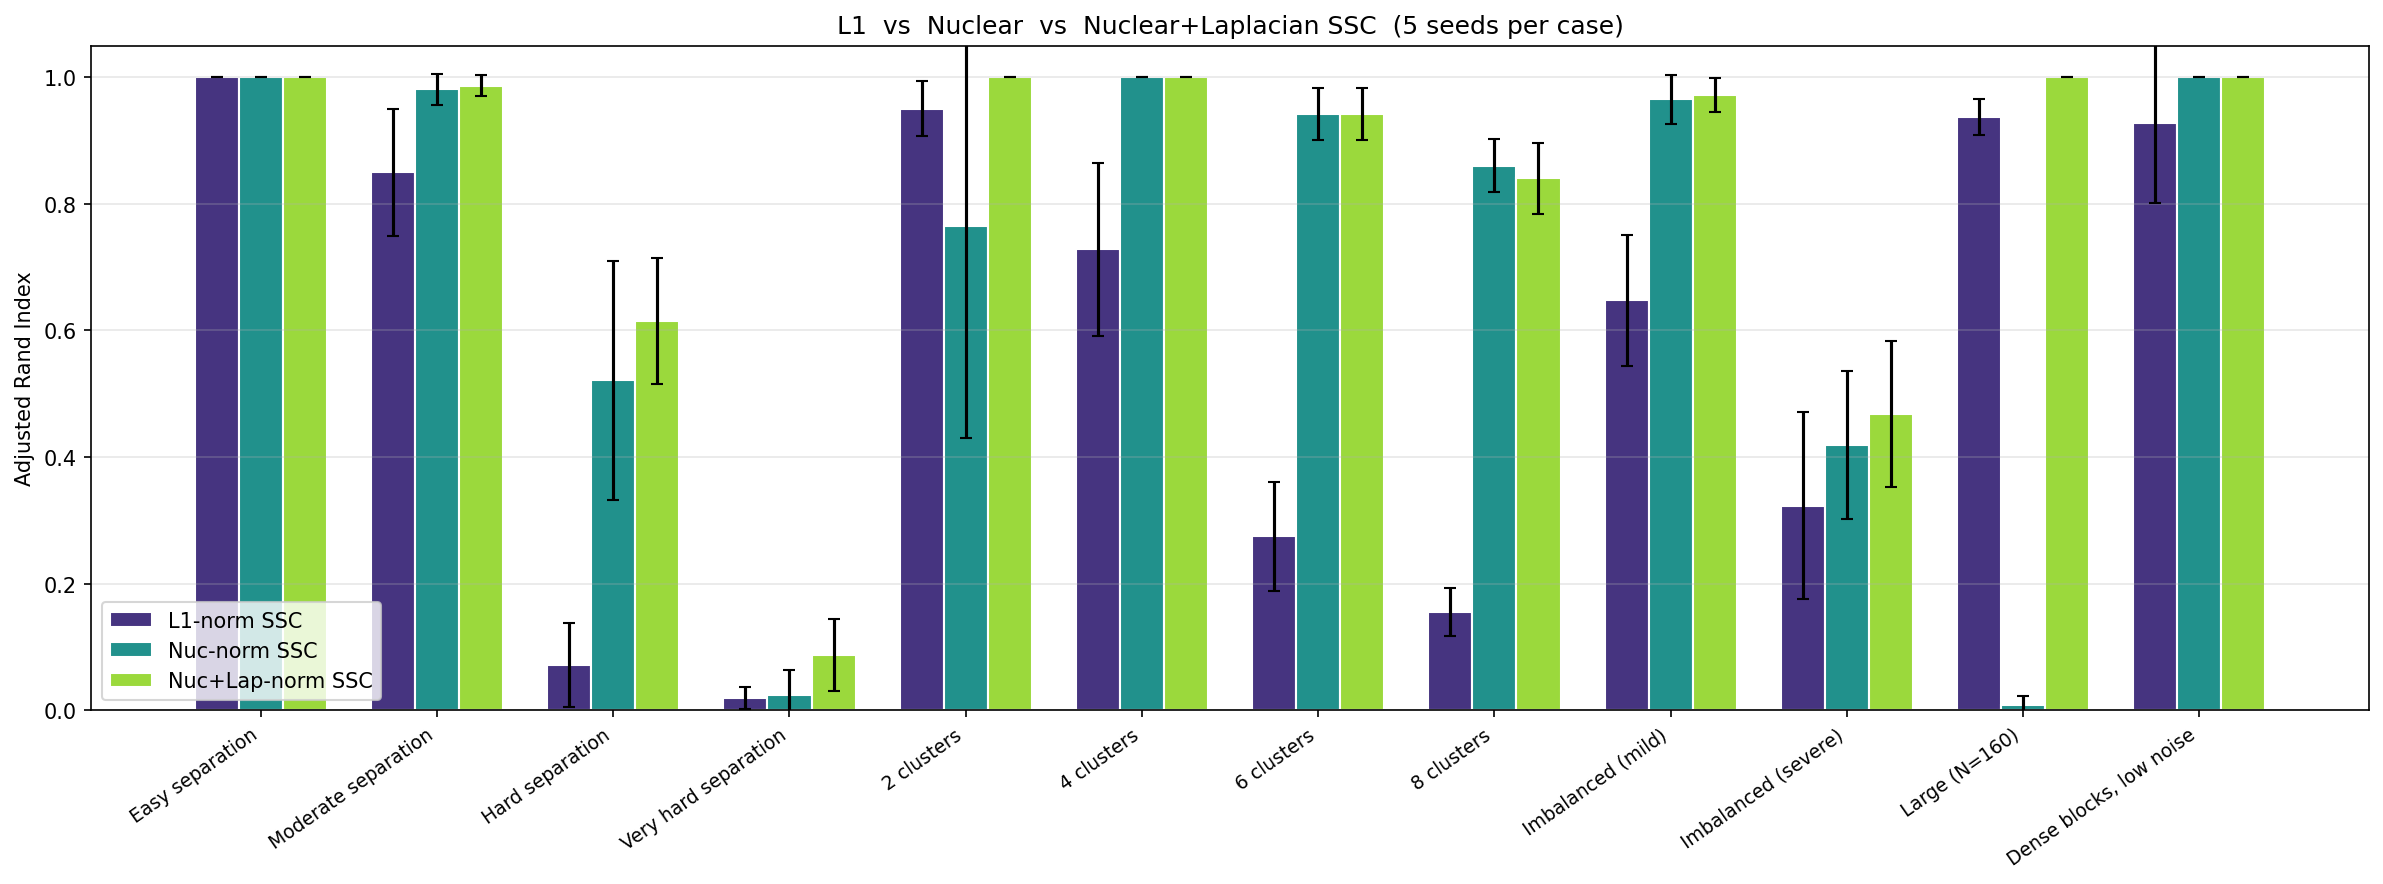
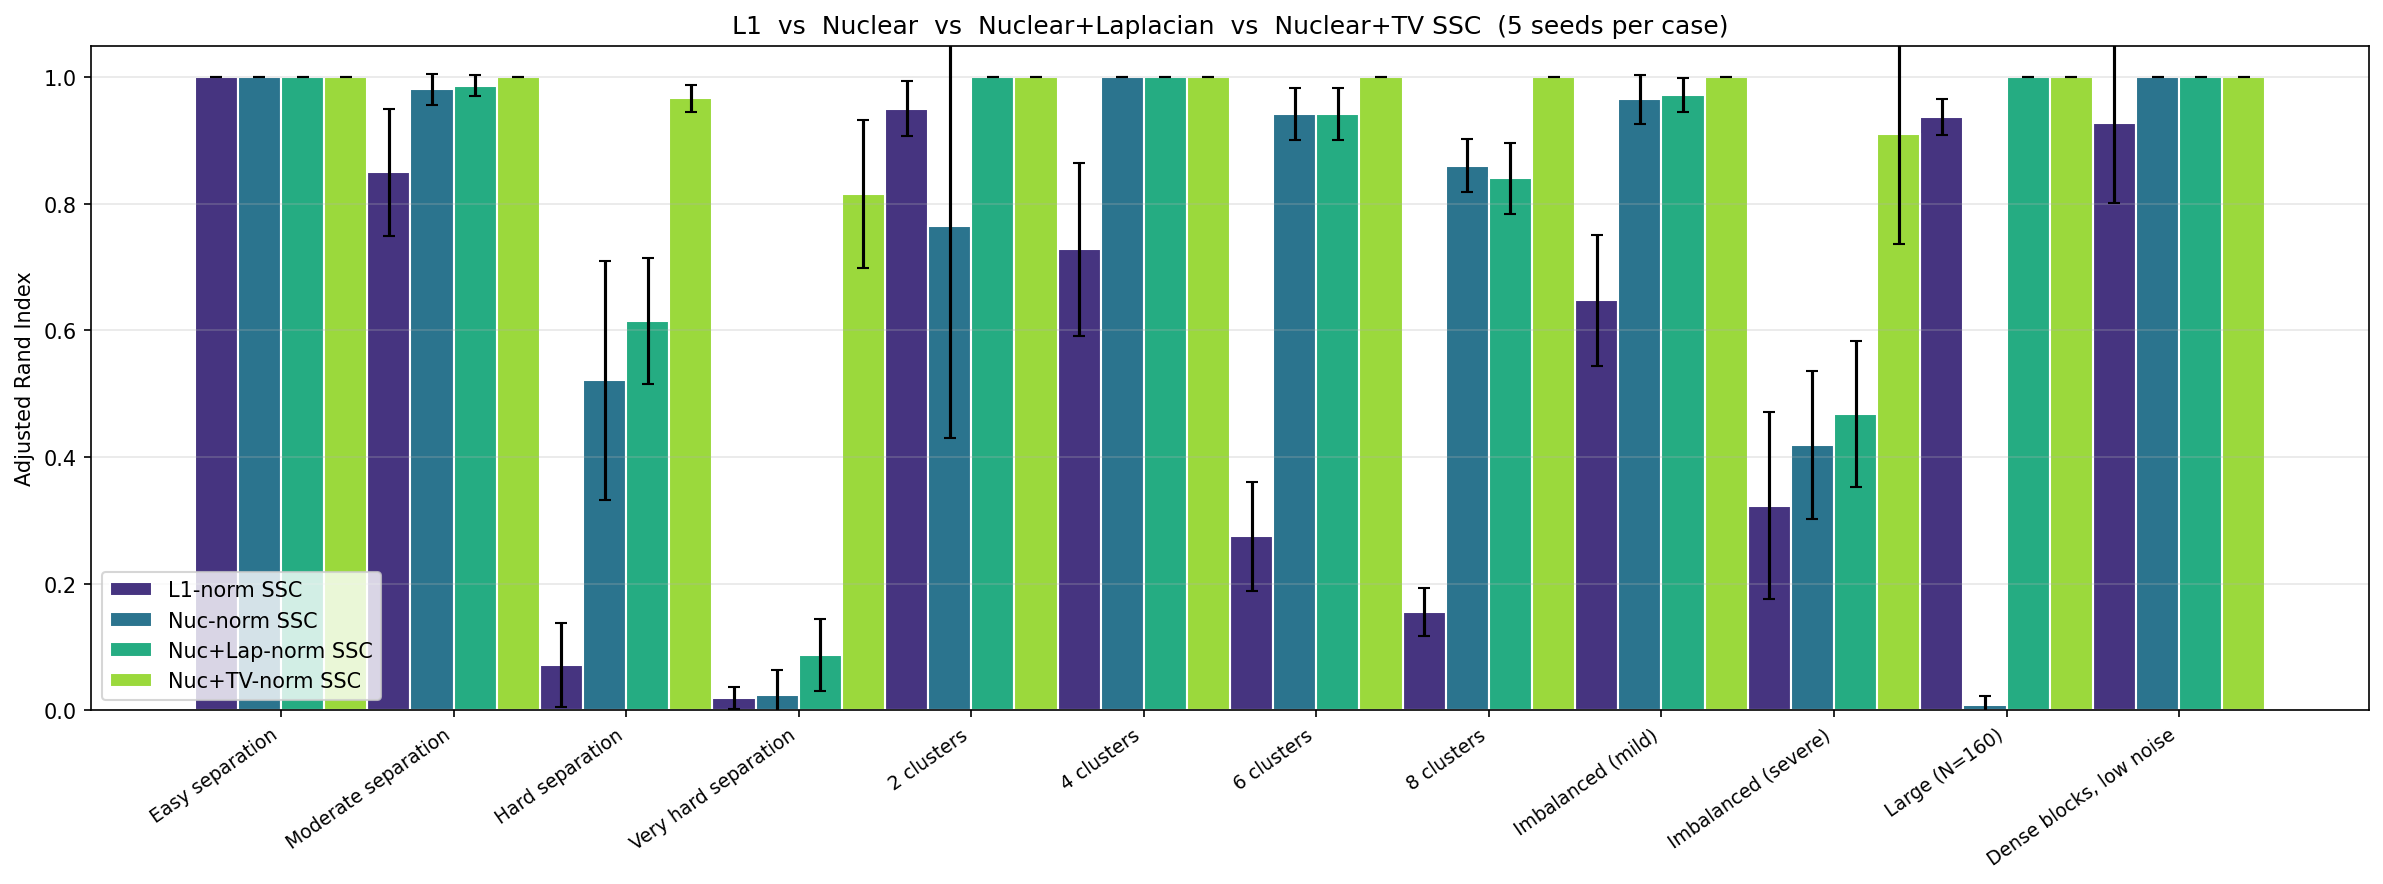
TV updates for benchmark tests and hic clustering test.

diff --git a/hic_clustering.py b/hic_clustering.py
@@ -33,6 +33,7 @@ from ssc_admm import ssc_admm
 from ssc_admm_nuc import ssc_admm as ssc_admm_nuc
 from ssc_admm_nuc_lap import ssc_admm_nuc_lap, cluster_from_C
 from ssc_admm_nuc_l1 import ssc_admm_nuc_l1
+from ssc_admm_nuc_total_var import ssc_admm_nuc_tv
 
 
 @dataclass(frozen=True)
@@ -165,16 +166,17 @@ def visualize_hic_ssc(
     X_nuc: np.ndarray,  pred_nuc: np.ndarray,
     X_lap: np.ndarray,  pred_lap: np.ndarray,
     X_l1: np.ndarray,   pred_l1: np.ndarray,
+    X_tv: np.ndarray,   pred_tv: np.ndarray,
     k: int,
     out_png: str,
 ) -> None:
     """
-    2×4 figure: Sparse | Nuc | NucLap | NucL1 — Hi-C boundaries (top) and
-    predicted cluster label tracks in original genomic order (bottom).
+    2×5 figure: Sparse | Nuc | NucLap | NucL1 | NucTV — Hi-C boundaries (top)
+    and predicted cluster label tracks in original genomic order (bottom).
     Cluster colors are consistent across all columns: cluster i always has the
     same color regardless of method.
     """
-    fig, axes = plt.subplots(2, 4, figsize=(24, 8))
+    fig, axes = plt.subplots(2, 5, figsize=(30, 8))
 
     Y_pos = Y[Y > 0]
     vmin = float(np.percentile(Y_pos, 5)) if Y_pos.size else 1.0
@@ -183,10 +185,14 @@ def visualize_hic_ssc(
 
     # Shared discrete colormap — same k colors used for every column.
     _palette = [
-        "#440154",  # 
-        "#3B528B",  # 
-        "#21918C",  # 
-        "#90D743",  # 
+        "#440154",
+        "#3B528B",
+        "#21918C",
+        "#90D743",
+        "#FDE725",
+        "#31688E",
+        "#35B779",
+        "#443A83",
     ]
     cluster_colors = [_palette[i % len(_palette)] for i in range(k)]
     from matplotlib.colors import ListedColormap
@@ -198,6 +204,7 @@ def visualize_hic_ssc(
         ("Nuc",     pred_nuc, _contiguous_boundaries(pred_nuc)),
         ("NucLap",  pred_lap, _contiguous_boundaries(pred_lap)),
         ("NucL1",   pred_l1,  _contiguous_boundaries(pred_l1)),
+        ("NucTV",   pred_tv,  _contiguous_boundaries(pred_tv)),
     ]
 
     for col, (name, pred, bounds) in enumerate(methods):
@@ -224,7 +231,7 @@ def visualize_hic_ssc(
         cbar.ax.set_yticklabels([str(i + 1) for i in range(k)])
 
     fig.suptitle(
-        "Hi-C SSC clustering  —  Sparse | Nuc | NucLap | NucL1  (original genomic order)",
+        "Hi-C SSC clustering  —  Sparse | Nuc | NucLap | NucL1 | NucTV  (original genomic order)",
         fontsize=13,
     )
     plt.tight_layout()
@@ -238,7 +245,7 @@ def main() -> None:
     p.add_argument("--chrom", default="chr1", help="Chromosome name, e.g. chr1")
     p.add_argument("--binsize", type=int, default=10_000, help="Bin size (BP units)")
     p.add_argument("--start-bp", type=int, default=0, help="Window start in base pairs")
-    p.add_argument("--k", type=int, default=4, help="Number of clusters for spectral clustering")
+    p.add_argument("--k", type=int, default=None, help="Number of clusters for spectral clustering")
     p.add_argument("--norm", choices=["none", "log1p", "zscore"], default="log1p", help="Pre-normalization")
 
     # SSC hyperparams (forwarded to ssc_admm.ssc_admm)
@@ -255,11 +262,16 @@ def main() -> None:
                    help="NucL1 L1/sparsity weight (default: σ₁(Y)/2)")
     p.add_argument("--lambda-lr", type=float, default=None,
                    help="NucL1 nuclear-norm/low-rank weight (default: σ₁(Y)/2)")
+    # NucTV-specific
+    p.add_argument("--gamma-tv", type=float, default=None,
+                   help="NucTV total-variation penalty (default: same as --gamma)")
+    p.add_argument("--sigma", type=float, default=1.0,
+                   help="NucTV ADMM penalty for TV auxiliary constraints (default: 1.0)")
 
     p.add_argument("--out", default="hic_ssc.png", help="Output PNG filename")
     args = p.parse_args()
 
-    window = HicWindow(chrom=args.chrom, binsize=args.binsize, start_bp=args.start_bp, n_bins=300)
+    window = HicWindow(chrom=args.chrom, binsize=args.binsize, start_bp=args.start_bp, n_bins=250)
     print(
         f"Loading Hi-C: {args.hic}\n"
         f"  chrom={window.chrom} binsize={window.binsize} start_bp={window.start_bp} end_bp={window.end_bp}"
@@ -270,10 +282,16 @@ def main() -> None:
 
     # Compute first singular value once; used as data-adaptive default scale.
     sigma1 = float(np.linalg.svd(Y, compute_uv=False)[0])
-    gamma = 2
+    if sigma1 == 0.0:
+        print("WARNING: σ₁(Y) = 0 (matrix appears to be all-zeros). "
+              "Falling back to σ₁ = 1.0 for scaling.")
+        sigma1 = 1.0
+    gamma = sigma1
+    gamma_tv = args.gamma_tv if args.gamma_tv is not None else gamma
     lambda_sp = 1
     lambda_lr = 1
-    print(f"σ₁(Y)={sigma1:.4g}  →  gamma={gamma:.4g}  lambda_sp={lambda_sp:.4g}  lambda_lr={lambda_lr:.4g}")
+    print(f"σ₁(Y)={sigma1:.4g}  →  gamma={gamma:.4g}  gamma_tv={gamma_tv:.4g}  "
+          f"lambda_sp={lambda_sp:.4g}  lambda_lr={lambda_lr:.4g}")
 
     # ── Sparse (L1 only) ──────────────────────────────────────────────────────
     print("\nRunning SSC-ADMM Sparse ...")
@@ -361,12 +379,41 @@ def main() -> None:
     }
     print(f"NucL1 done. {metrics_l1}")
 
+    # ── NucTV ─────────────────────────────────────────────────────────────────
+    print(f"\nRunning SSC-ADMM NucTV (gamma_tv={gamma_tv:.4g}, sigma={args.sigma:.4g}) ...")
+    t0 = time.perf_counter()
+    X_tv, _C_tv, E_tv = ssc_admm_nuc_tv(
+        Y,
+        lambda_e=args.lambda_e / sigma1,
+        lambda_z=args.lambda_z / sigma1,
+        mu=args.mu,
+        sigma=args.sigma,
+        gamma=gamma_tv,
+        max_iter=args.max_iter,
+        tol=args.tol,
+    )
+    elapsed_tv = time.perf_counter() - t0
+    pred_tv = cluster_from_C(X_tv, args.k)
+    recon_tv = np.linalg.norm(Y - Y @ X_tv - E_tv, "fro") / (np.linalg.norm(Y, "fro") + 1e-12)
+    metrics_tv = {
+        "time_s":   round(elapsed_tv, 2),
+        "recon":    round(float(recon_tv), 4),
+        "sparsity": round(float(np.mean(np.abs(X_tv) < 1e-8)), 4),
+    }
+    print(f"NucTV done. {metrics_tv}")
+
+    # When k was auto-detected per method, derive the visualization k as the
+    # maximum number of unique clusters found across all methods.
+    all_preds = [pred_sp, pred_nuc, pred_lap, pred_l1, pred_tv]
+    k_viz = args.k if args.k is not None else max(len(np.unique(p)) for p in all_preds)
+
     visualize_hic_ssc(Y_raw,
                       X_sp,  pred_sp,
                       X_nuc, pred_nuc,
                       X_lap, pred_lap,
                       X_l1,  pred_l1,
-                      args.k,
+                      X_tv,  pred_tv,
+                      k_viz,
                       args.out)
     print(f"Saved figure to {args.out}")
 

diff --git a/benchmark_norms.py b/benchmark_norms.py
@@ -1,9 +1,9 @@
 """
-Benchmark: L1-norm vs Nuclear-norm vs Nuclear+Laplacian SSC
-===========================================================
+Benchmark: L1-norm vs Nuclear-norm vs Nuclear+Laplacian vs Nuclear+TV SSC
+==========================================================================
 Generates a sweep of random block-diagonal adjacency matrices with varying
 difficulty (cluster count, size, within/between edge probabilities) and
-compares three ADMM formulations on subspace clustering quality (ARI).
+compares four ADMM formulations on subspace clustering quality (ARI).
 """
 
 import warnings
@@ -21,6 +21,7 @@ from ssc_admm import (
 )
 from ssc_admm_nuc import ssc_admm as ssc_nuc
 from ssc_admm_nuc_lap import ssc_admm_nuc_lap
+from ssc_admm_nuc_total_var import ssc_admm_nuc_tv
 
 # ── Test-case definitions ─────────────────────────────────────────────────────
 
@@ -108,9 +109,10 @@ TEST_CASES = [
 L1_PARAMS      = dict(lambda_e=1.0, lambda_z=10.0, mu=1.0, max_iter=500, tol=1e-4)
 NUC_PARAMS     = dict(lambda_e=1.0, lambda_z=0.1,  mu=1.0, max_iter=500, tol=1e-4)
 NUC_LAP_PARAMS = dict(lambda_e=1.0, lambda_z=0.1, gamma=0.1, mu=1.0, rho=1.0, max_iter=500, tol=1e-4)
+NUC_TV_PARAMS  = dict(lambda_e=1.0, lambda_z=0.1, gamma=0.1, mu=1.0, sigma=1.0, max_iter=500, tol=1e-4)
 
-METHODS = ["l1", "nuc", "nuc_lap"]
-METHOD_LABELS = {"l1": "L1", "nuc": "Nuc", "nuc_lap": "Nuc+Lap"}
+METHODS = ["l1", "nuc", "nuc_lap", "nuc_tv"]
+METHOD_LABELS = {"l1": "L1", "nuc": "Nuc", "nuc_lap": "Nuc+Lap", "nuc_tv": "Nuc+TV"}
 
 NUM_SEEDS = 5  # random repetitions per test case
 
@@ -126,6 +128,8 @@ def run_one(Y, true_labels, k, method="l1"):
         X, _C, _J, _E = ssc_nuc(Y, **NUC_PARAMS)
     elif method == "nuc_lap":
         X, _J, _C, _E = ssc_admm_nuc_lap(Y, **NUC_LAP_PARAMS)
+    elif method == "nuc_tv":
+        X, _C, _E = ssc_admm_nuc_tv(Y, **NUC_TV_PARAMS)
     else:
         raise ValueError(f"Unknown method: {method}")
     elapsed = time.perf_counter() - t0
@@ -199,7 +203,7 @@ def summarize(results):
 
 def print_table(cases, rows):
     hdr = (f"{'Test case':<28} {'L1 ARI':>12} {'Nuc ARI':>12} "
-           f"{'Nuc+Lap ARI':>12} {'Winner':>8}")
+           f"{'Nuc+Lap ARI':>12} {'Nuc+TV ARI':>12} {'Winner':>8}")
     print(f"\n{'─'*len(hdr)}")
     print(hdr)
     print(f"{'─'*len(hdr)}")
@@ -217,7 +221,7 @@ def print_table(cases, rows):
         else:
             winner = METHOD_LABELS[best_m]
         print(f"{case:<28} {strs['l1']:>12} {strs['nuc']:>12} "
-              f"{strs['nuc_lap']:>12} {winner:>8}")
+              f"{strs['nuc_lap']:>12} {strs['nuc_tv']:>12} {winner:>8}")
     print(f"{'─'*len(hdr)}")
 
 
@@ -250,7 +254,7 @@ def plot_comparison(cases, rows, save_path="benchmark_norms.png"):
     ax.set_xticklabels(cases, rotation=35, ha="right", fontsize=9)
     ax.set_ylabel("Adjusted Rand Index")
     ax.set_ylim(0, 1.05)
-    ax.set_title("L1  vs  Nuclear  vs  Nuclear+Laplacian SSC  "
+    ax.set_title("L1  vs  Nuclear  vs  Nuclear+Laplacian  vs  Nuclear+TV SSC  "
                  f"({NUM_SEEDS} seeds per case)")
     ax.legend()
     ax.grid(axis="y", alpha=0.3)
@@ -283,7 +287,7 @@ def plot_time_comparison(cases, rows, save_path="benchmark_norms_time.png"):
     ax.set_xticks(x)
     ax.set_xticklabels(cases, rotation=35, ha="right", fontsize=9)
     ax.set_ylabel("Wall-clock time (s)")
-    ax.set_title("Runtime: L1  vs  Nuclear  vs  Nuclear+Laplacian SSC")
+    ax.set_title("Runtime: L1  vs  Nuclear  vs  Nuclear+Laplacian  vs  Nuclear+TV SSC")
     ax.legend()
     ax.grid(axis="y", alpha=0.3)
     plt.tight_layout()

diff --git a/ssc_admm.py b/ssc_admm.py
@@ -143,8 +143,13 @@ def ssc_admm(Y, lambda_e=1.0, lambda_z=10.0, mu=1.0, max_iter=500, tol=1e-4):
 
 # ── Clustering from C ──────────────────────────────────────────────────────────
 
-def cluster_from_C(C, k):
-    """Spectral clustering on the symmetric affinity W = |C| + |C|^T."""
+def cluster_from_C(C, k=None):
+    """Spectral clustering on the symmetric affinity W = |C| + |C|^T.
+
+    If k is None, k is estimated via the eigengap heuristic on the
+    symmetrically-normalised affinity D^{-½}WD^{-½}, clipped to [1, 12] TADs.
+    TODO: above heuristic not implemented yet.
+    """
     W = np.abs(C) + np.abs(C.T)
     sc = SpectralClustering(n_clusters=k, affinity='precomputed',
                             assign_labels='kmeans', random_state=0)

diff --git a/ssc_admm_nuc_l1.py b/ssc_admm_nuc_l1.py
@@ -213,8 +213,13 @@ def ssc_admm_nuc_l1(
 
 # ── Clustering ─────────────────────────────────────────────────────────────────
 
-def cluster_from_C(C, k):
-    """Spectral clustering on the symmetric affinity W = |C| + |C|^T."""
+def cluster_from_C(C, k=None):
+    """Spectral clustering on the symmetric affinity W = |C| + |C|^T.
+
+    If k is None, k is estimated via the eigengap heuristic on the
+    symmetrically-normalised affinity D^{-½}WD^{-½}, clipped to [1, 12] TADs.
+    TODO: above heuristic not implemented yet.
+    """
     W = np.abs(C) + np.abs(C.T)
     sc = SpectralClustering(n_clusters=k, affinity='precomputed',
                             assign_labels='kmeans', random_state=0)

diff --git a/ssc_admm_nuc.py b/ssc_admm_nuc.py
@@ -149,8 +149,13 @@ def ssc_admm(
 
 # ── Clustering from C ──────────────────────────────────────────────────────────
 
-def cluster_from_C(C, k):
-    """Spectral clustering on the symmetric affinity W = |C| + |C|^T."""
+def cluster_from_C(C, k=None):
+    """Spectral clustering on the symmetric affinity W = |C| + |C|^T.
+
+    If k is None, k is estimated via the eigengap heuristic on the
+    symmetrically-normalised affinity D^{-½}WD^{-½}, clipped to [1, 12] TADs.
+    TODO: above heuristic not implemented yet.
+    """
     W = np.abs(C) + np.abs(C.T)
     sc = SpectralClustering(n_clusters=k, affinity='precomputed',
                             assign_labels='kmeans', random_state=0)

diff --git a/ssc_admm_nuc_lap.py b/ssc_admm_nuc_lap.py
@@ -205,7 +205,13 @@ def ssc_admm_nuc_lap(
 
 # ── Clustering ────────────────────────────────────────────────────────────────
 
-def cluster_from_C(C, k):
+def cluster_from_C(C, k=None):
+    """Spectral clustering on the symmetric affinity W = |C| + |C|^T.
+
+    If k is None, k is estimated via the eigengap heuristic on the
+    symmetrically-normalised affinity D^{-½}WD^{-½}, clipped to [1, 12] TADs.
+    TODO: above heuristic not implemented yet.
+    """
     W = np.abs(C) + np.abs(C.T)
     sc = SpectralClustering(n_clusters=k, affinity='precomputed',
                             assign_labels='kmeans', random_state=0)
